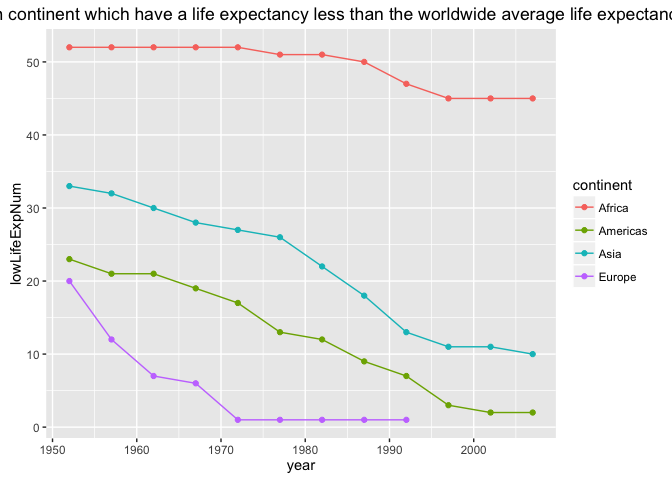
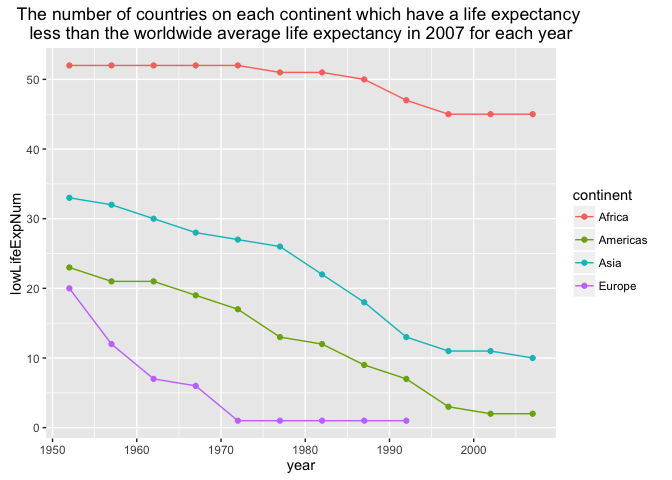
Homework 03

diff --git a/hw03_use-dplyr-to-manipulate-and-explore-data.md b/hw03_use-dplyr-to-manipulate-and-explore-data.md
@@ -320,7 +320,8 @@ gdp_lowLifeExp %>%
   ggplot(aes(x = year, y = lowLifeExpNum, color = continent)) +
   geom_point() +
   geom_path() +
-  ggtitle("The number of countries on each continent which have a life expectancy less than the worldwide average life expectancy in 2007 for each year")
+  ggtitle("The number of countries on each continent which have a life expectancy 
+less than the worldwide average life expectancy in 2007 for each year")
 ```
 
 ![](hw03_use-dplyr-to-manipulate-and-explore-data_files/figure-markdown_github/unnamed-chunk-13-1.png)
